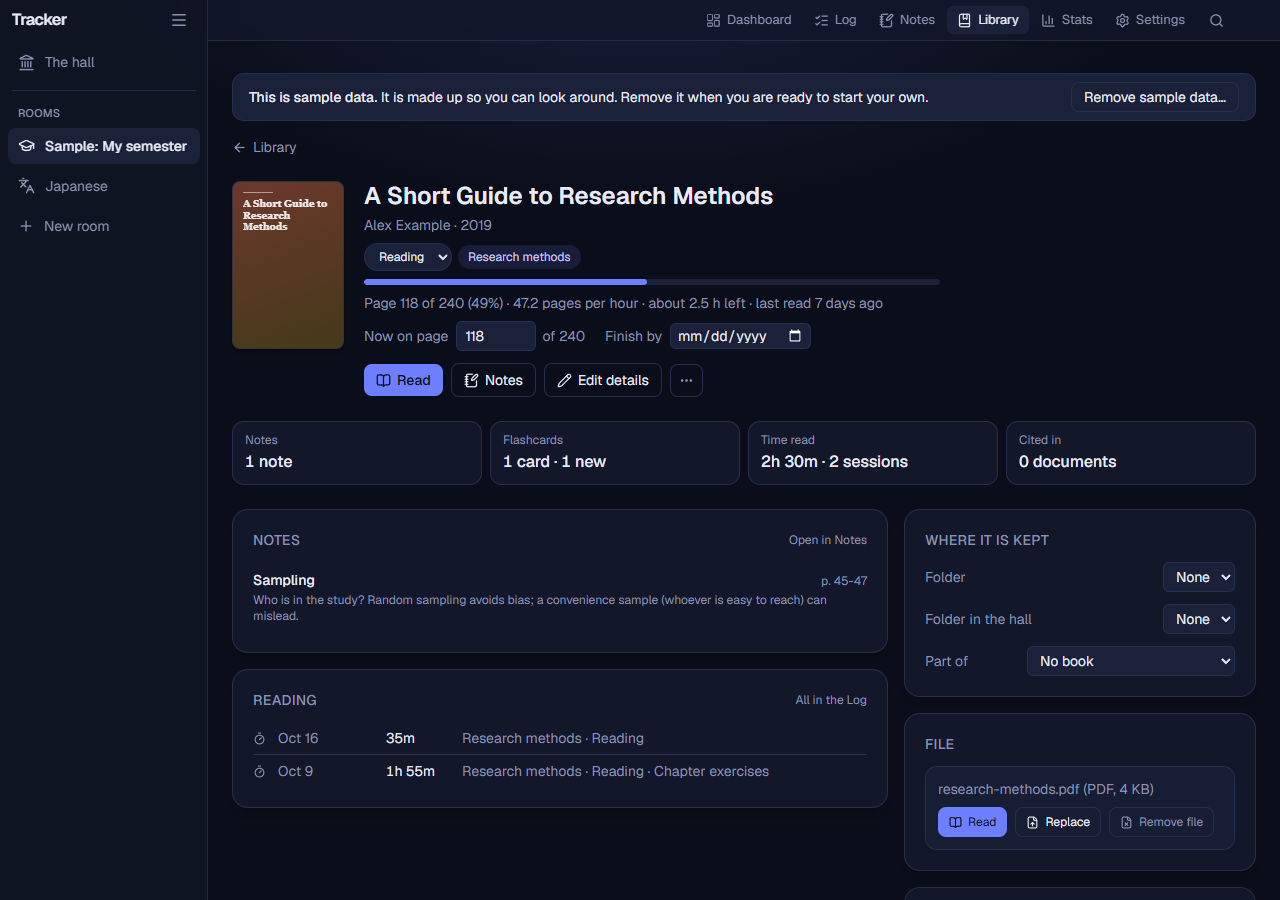
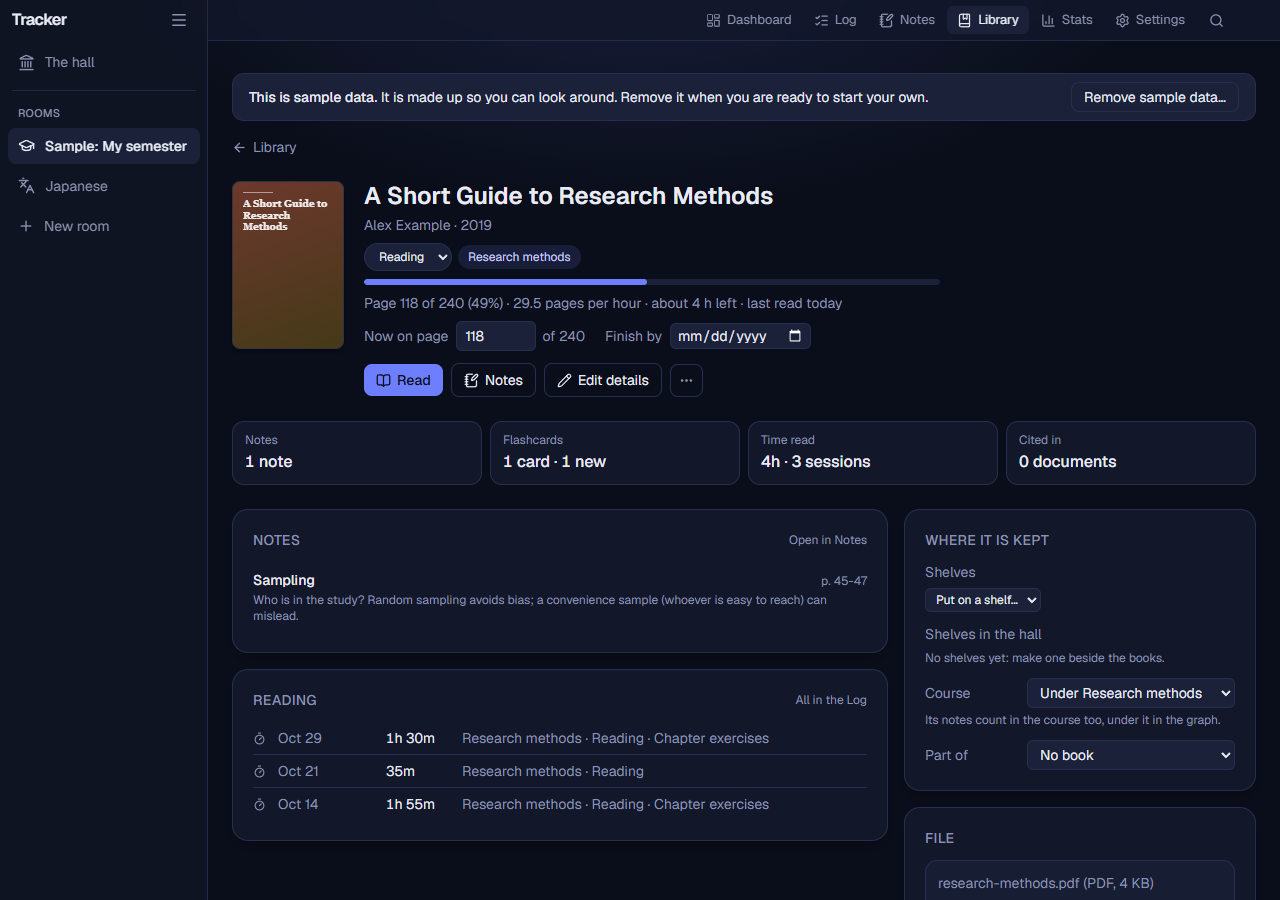
Update the site

diff --git a/docs/manual.html b/docs/manual.html
@@ -23,7 +23,7 @@
   </header>
 
   <h1>The full user manual</h1>
-  <p class="lead">Everything Tracker does, part by part. New here? Start with <a href="guide.html">Getting started in ten minutes</a>. This manual describes version 0.40.0; later versions may add things, and App settings, About lists what changed.</p>
+  <p class="lead">Everything Tracker does, part by part. New here? Start with <a href="guide.html">Getting started in ten minutes</a>. This manual describes version 0.41.0; later versions may add things, and App settings, About lists what changed.</p>
 
   <div class="layout">
     <nav class="toc" aria-label="Contents">
@@ -288,7 +288,7 @@
         <h2 id="library">11. The Library: books</h2>
         <p>Each room&rsquo;s <strong>Library</strong> tab has two parts: <strong>Books</strong>, described here, and <a href="#writing">Writing</a>. The hall&rsquo;s <strong>Books</strong> has every book of every room, and books you keep in the hall (see <a href="#archive">The hall&rsquo;s books</a> below).</p>
         <figure class="shot"><a class="zoom" href="img/writing.png"><img src="img/writing.png" width="1280" height="900" alt="A document in Writing: its title Sampling in small studies and three paragraphs, with the toolbar above for headings, fonts, lists, quotations, Cite, Footnote, Example and IPA." loading="lazy"></a><figcaption>A document in Writing.</figcaption></figure>
-        <figure class="shot"><a class="zoom" href="img/library.png"><img src="img/library.png" width="1280" height="900" alt="The Library as a shelf: Continue reading at the top, then the books as covers grouped by status, each with its title, authors and course." loading="lazy"></a><figcaption>The Library.</figcaption></figure>
+        <figure class="shot"><a class="zoom" href="img/library.png"><img src="img/library.png" width="1280" height="900" alt="The Library as a shelf: the shelves and a smart shelf beside it, Continue reading at the top, then the books as covers grouped by status, each with its title, authors and course." loading="lazy"></a><figcaption>The Library.</figcaption></figure>
         <h3>Adding a text</h3>
         <p>Press <strong>Add</strong>. In the box, type:</p>
         <ul>
@@ -305,7 +305,7 @@
           <li><strong>Shelf</strong>: each book&rsquo;s cover, with its title, authors, year and course under it and a thin line for how far you are. A book with a file has <em>Read</em> on its cover; its <strong>...</strong> menu (on the cover when the pointer is over it, always on a phone) changes the status, opens <em>Edit details</em>, moves it (into a room, or to the hall) and deletes it. <em>+1 inside</em> means a chapter or an article is under it. Click the cover or the title to open the book&rsquo;s own page.</li>
           <li><strong>List</strong>: a row for each book, with its course, author, year, status, progress and when you last read it. Click a column&rsquo;s heading to sort by it. Chapters and articles are indented under the book they are in.</li>
           <li><strong>Continue reading</strong>, at the top when you look at all your books: the books you are reading, last read first; one click opens the reader where you left it.</li>
-          <li><strong>Group</strong> by status, course, folder, author, year or nothing (the hall&rsquo;s Books also by room); <strong>Sort</strong> by last read, last added, title (a leading <em>The</em> or <em>A</em> aside), author, year or progress; and show only one kind of text, <em>Has a file</em> or <em>Has notes</em>.</li>
+          <li><strong>Group</strong> by status, course, shelf, author, year or nothing (the hall&rsquo;s Books also by room); <strong>Sort</strong> by last read, last added, title (a leading <em>The</em> or <em>A</em> aside), author, year or progress; and show only one kind of text, <em>Has a file</em> or <em>Has notes</em>.</li>
           <li><strong>Covers</strong>: a book without a picture has a made cover, its title and author on its colour. <em>Find missing covers</em> in the <em>Covers</em> menu takes each cover from the book&rsquo;s own file (a PDF&rsquo;s first page, an EPUB&rsquo;s cover picture) or, for a book with an ISBN, from Open Library. <em>Hide cover pictures</em> is there too.</li>
         </ul>
         <h3 id="book-page">A book&rsquo;s own page</h3>
@@ -314,17 +314,19 @@
           <li><strong>At the top</strong>: the cover and details, the status (change it there), the course, the book it is part of, how far you are with the pace and time left, <em>Now on page</em> and <em>Finish by</em> (a reading plan: the pages a day it takes), then <em>Read</em> (or <em>Continue reading</em>), <em>Notes</em> and <em>Edit details</em>.</li>
           <li><strong>Tiles</strong>: the notes and highlights about it, its flashcards (how many are due), the time read and the documents that cite it, each leading to them.</li>
           <li><strong>Notes</strong> about it with their pages, its <strong>highlights</strong> that have no note, the <strong>chapters and articles</strong> inside it, and the latest <strong>reading</strong> logged against it.</li>
-          <li><strong>Where it is kept</strong>: its folder, its folder in the hall, and the book it is part of. <strong>File</strong>: attach, replace or remove its PDF or EPUB. <strong>Citation</strong>: the reference in the style you choose, with <em>Copy</em>.</li>
+          <li><strong>Where it is kept</strong>: the shelves it is on (its room&rsquo;s, and the hall&rsquo;s), each with &times; to take it off and <em>Add...</em> for another; whether it is <em>under</em> its course (its notes count in the course too) or only <em>connected</em> to it; and the book it is part of. <strong>File</strong>: attach, replace or remove its PDF or EPUB. <strong>Citation</strong>: the reference in the style you choose, with <em>Copy</em>.</li>
         </ul>
         <figure class="shot"><a class="zoom" href="img/library-book.png"><img src="img/library-book.png" width="1280" height="900" alt="A book's own page: its cover and progress at the top, tiles for its notes, flashcards, time read and citing documents, its notes and reading sessions, and on the side where it is kept, its file and its citation." loading="lazy"></a><figcaption>A book&rsquo;s own page.</figcaption></figure>
         <p>Links to a book from elsewhere (a note&rsquo;s book, a flashcard, the graph, search, the reader&rsquo;s way back) open this page.</p>
-        <h3 id="folders">Folders and books under books</h3>
+        <h3 id="folders">Shelves, smart shelves and books under books</h3>
         <ul>
-          <li><strong>Folders.</strong> The <em>Folders</em> panel beside the list holds your own folders, for books and documents alike: <em>New folder</em>, and on a folder <em>New folder inside</em>, rename and delete. Click a folder to show what is in it (and in the folders inside it); its number counts those too. A folder with folders inside has an arrow to close it and open it again, as a book&rsquo;s contents, and a closed folder stays closed in that browser. <em>All books</em> and <em>Not in a folder</em> are at the top. Put a book in a folder by dragging it onto the folder, or with <em>Folder</em> on its page. Deleting a folder keeps what was in it: it moves up to the folder above (or out of any folder).</li>
-          <li><strong>Books under books.</strong> <em>Part of</em> on a book&rsquo;s page puts it under another book, for a chapter, a volume of a series or an article in a collection. It is then listed indented under that book, at any depth. A book cannot go under itself or a book under it.</li>
+          <li><strong>Shelves.</strong> The panel beside the books holds your own shelves, for books and documents alike (they were called folders before 0.41): <em>New shelf</em>, and on a shelf <em>New shelf inside</em>, rename and delete. A book or a document can be on several shelves. Click a shelf to show what is on it (and on the shelves inside it); its number counts each once. A shelf with shelves inside has an arrow to close it and open it again, and a closed shelf stays closed in that browser. <em>All books</em> and <em>Not on a shelf</em> are at the top. Put a book on a shelf by dragging it onto the shelf (it stays on its other shelves too), or with <em>Add...</em> on its page. Deleting a shelf keeps what was on it: it goes onto the shelf above (or onto none). Your folders from before 0.41 became shelves, with everything that was in them.</li>
+          <li><strong>Smart shelves</strong> hold what their rules pick, and nothing is put on them by hand: <em>New smart shelf</em> starts from a ready-made one (<em>Has a PDF or EPUB</em>, <em>Not opened in 30 days</em>, <em>Finished this year</em>, <em>With notes</em>; for documents <em>Due this month</em>, <em>Over 5,000 words</em>, <em>Edited this week</em>) or your own: words in the title or authors, the status, a file, notes, days since it was opened. Its pencil changes the rules.</li>
+          <li><strong>Choosing several books.</strong> <em>Choose</em>, above the books, puts a tick on each cover (or row). Pick books, or <em>Choose all</em>, and the bar at the bottom puts them on a shelf, takes them off the shelf you are looking at, sets their status or course, moves them to the hall or another room, copies their references (APA) to paste in a document, or deletes them.</li>
+          <li><strong>Books under books.</strong> <em>Part of</em> on a book&rsquo;s page puts it under another book, for a chapter, a volume of a series or an article in a collection. On the shelf its book says <em>+1 inside</em>; in the list it is folded under that book until you open it, at any depth. A book cannot go under itself or a book under it.</li>
         </ul>
         <h3 id="archive">The hall&rsquo;s books</h3>
-        <p>The hall&rsquo;s <strong>Books</strong> keeps books that belong to no room: anything you read in general. Drop PDF or EPUB files on it, or <em>Add a book</em> by its ISBN or title, as in a Library. They are read in the same reader, with highlights, text boxes, drawings, notes (the hall&rsquo;s), Ask and the timer; flashcards belong to a room. It also lists every room&rsquo;s books, under <em>In rooms</em>, and every book can be edited here (its room&rsquo;s courses to choose from, for a room&rsquo;s book). The hall&rsquo;s <strong>folders</strong> are its own, for any book: a book in a room can go in a folder here beside books in no room, and keeps the folder it has in its room&rsquo;s Library (a book can be in <em>Syntax</em> in its room and in <em>Linguistics</em> here). Drag a book onto a folder, or choose its <em>Folder in the hall</em> on its page; a folder shows its books together, whatever room each is in. A book can go under another book of the same room, or of none. <strong>Move into</strong> a room, in the <strong>...</strong> menu of a book of the hall, moves it there, with its file and highlights, when it belongs to a course there. <em>Move it to the hall</em> does the opposite for a book that has no notes, sessions, flashcards or citations yet.</p>
+        <p>The hall&rsquo;s <strong>Books</strong> keeps books that belong to no room: anything you read in general. Drop PDF or EPUB files on it, or <em>Add a book</em> by its ISBN or title, as in a Library. They are read in the same reader, with highlights, text boxes, drawings, notes (the hall&rsquo;s), Ask and the timer; flashcards belong to a room. It also lists every room&rsquo;s books, grouped by room at first (the hall&rsquo;s own first), and the rooms are a filter in the panel beside them; every book can be edited here (its room&rsquo;s courses to choose from, for a room&rsquo;s book). The hall&rsquo;s <strong>shelves</strong> are its own, and hold any book: a book in a room can be on a shelf here beside the hall&rsquo;s own books, and keeps its shelves in its room&rsquo;s Library (a book can be on <em>Syntax</em> in its room and on <em>Linguistics</em> here). Drag a book onto a shelf, or <em>Add...</em> under <em>Shelves in the hall</em> on its page; a shelf shows its books together, whatever room each is in. A book can go under another book of the same room, or of none. <strong>Move into</strong> a room, in the <strong>...</strong> menu of a book of the hall, moves it there, with its file and highlights, when it belongs to a course there. <em>Move it to the hall</em> does the opposite for a book that has no notes, sessions, flashcards or citations yet.</p>
         <h3>Reading a text</h3>
         <ul>
           <li><strong>Status</strong>: To read, Reading, Paused, Read. Starting to read and finishing are dated for you.</li>
@@ -340,7 +342,7 @@
         <p id="zotero"><strong>From Zotero on this computer</strong> (in the same place) brings in a whole Zotero library. Leave the box empty for Zotero&rsquo;s usual folder (<em>Zotero</em> in your home folder), or type the folder Zotero keeps its data in (Zotero shows it under Settings, Advanced, Files and Folders). <em>Look at it</em> says how many items are new, in how many collections, with how many highlights and notes; <em>Bring in</em> adds them:</p>
         <ul>
           <li>each item as a book, with its authors, year, publisher, DOI, ISBN and the rest;</li>
-          <li>each collection as a folder (collections inside collections as folders inside folders), with its items in it;</li>
+          <li>each collection as a shelf (collections inside collections as shelves inside shelves), with its items on it;</li>
           <li>the highlights and comments made in Zotero&rsquo;s reader, as notes about that book at their page, and the notes on an item as notes about it;</li>
           <li>if you tick it, each item&rsquo;s PDF or EPUB, copied (Tracker says how much that is first).</li>
         </ul>
@@ -405,7 +407,8 @@
           <li><strong>New document</strong> starts one. The arrow beside it starts one <strong>from a template</strong>: <em>Term paper</em> (introduction, background, discussion, conclusion), <em>Thesis chapter</em> (numbered sections and a table of contents), <em>Journal article</em> (abstract, introduction, data and method, analysis, discussion, conclusion) or <em>Conference abstract</em> (a word limit of 500). The parts are headings to write under; everything can be changed as in any document. The list shows the newest first, with the number of words and when it was last changed. Search with <strong>Search your documents</strong> and filter by course.</li>
           <li><strong>Import</strong> opens a Word file (.docx) or a plain text file as a new document, to go on writing it here: headings, lists, tables, quotations, bold and the rest, links, pictures and footnotes come with it, and so does the look of the paper: its font, text size, line spacing and margins and where its page numbers are (set under <em>Page</em>), each paragraph&rsquo;s lining up (centred, justified), first-line and hanging indents, paragraphs moved in from the left (as quotations, in their own text size: a 10 pt quotation stays 10 pt), empty lines, page breaks and section breaks (a title page stays on its own page, in the middle of it if it was so in Word, and each chapter that started a new page still does), the page numbers of each section (front pages numbered i, ii, the text from 1 again, none on a chapter&rsquo;s first page), footnotes with their italics and bold, and Word&rsquo;s table of contents, which becomes Tracker&rsquo;s under its own title. A first heading (or Word&rsquo;s Title) becomes the document&rsquo;s title; otherwise the file&rsquo;s name is only the document&rsquo;s name and is not printed above the text (<em>Print the title above the text</em> under <em>Page</em> puts it back). Your file is not changed or kept. What Word has and Tracker does not (fonts of single words, a different line spacing for single paragraphs, heading sizes of the file&rsquo;s own, comments, tracked changes, drawings) is left out, and Tracker says when something was. An old .doc file must be saved as .docx in Word first.</li>
           <li>Give a document a course under <em>Page</em>, so it shows under that course.</li>
-          <li><strong>Folders</strong>: the same folders as the Library&rsquo;s (see <a href="#folders">Folders</a>). Drag a document onto a folder, or choose its <em>Folder</em> in the list.</li>
+          <li><strong>Shelves</strong>: the same shelves as the Library&rsquo;s, and smart shelves for documents (see <a href="#folders">Shelves</a>). Drag a document onto a shelf, or put it on one on its page. The list shows each document&rsquo;s words, when it last changed, its course, its due day and its shelves; the pencil beside its title opens it in the editor.</li>
+          <li id="document-page"><strong>A document&rsquo;s own page</strong> (click its title): how many words it has and a line of how they grew (from its kept versions), its due day, the books it cites (each opening its own page), the time written on it and its sessions, its shelves and its versions, with <em>Open in the editor</em>, the move button and <em>Put in the bin</em>.</li>
           <li><strong>Start the timer</strong> in a document times its writing: it starts with the document&rsquo;s course and a writing activity, has <em>Started earlier?</em>, and the time spent shows next to it (&ldquo;3h 20m writing&rdquo;). The sessions are in the Log, with a link back to the document.</li>
           <li>The bin button in a document moves it to the <strong>Bin</strong> (it asks first). In the Bin, <strong>Take out</strong> brings it back and <strong>Delete for good</strong> deletes it and its earlier versions, after asking.</li>
         </ul>
